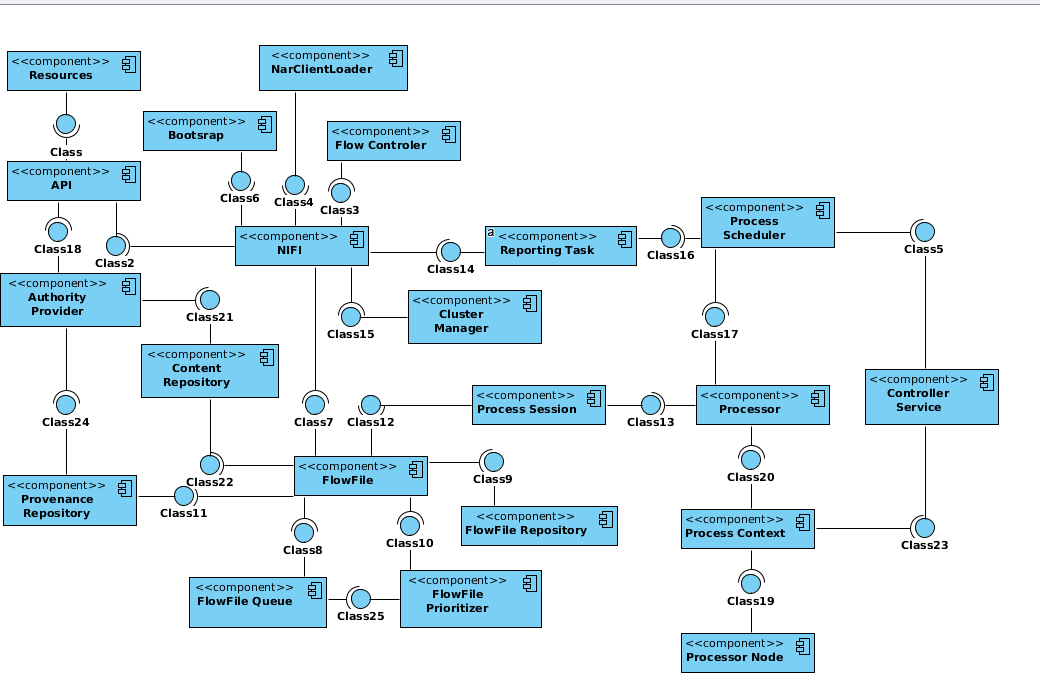
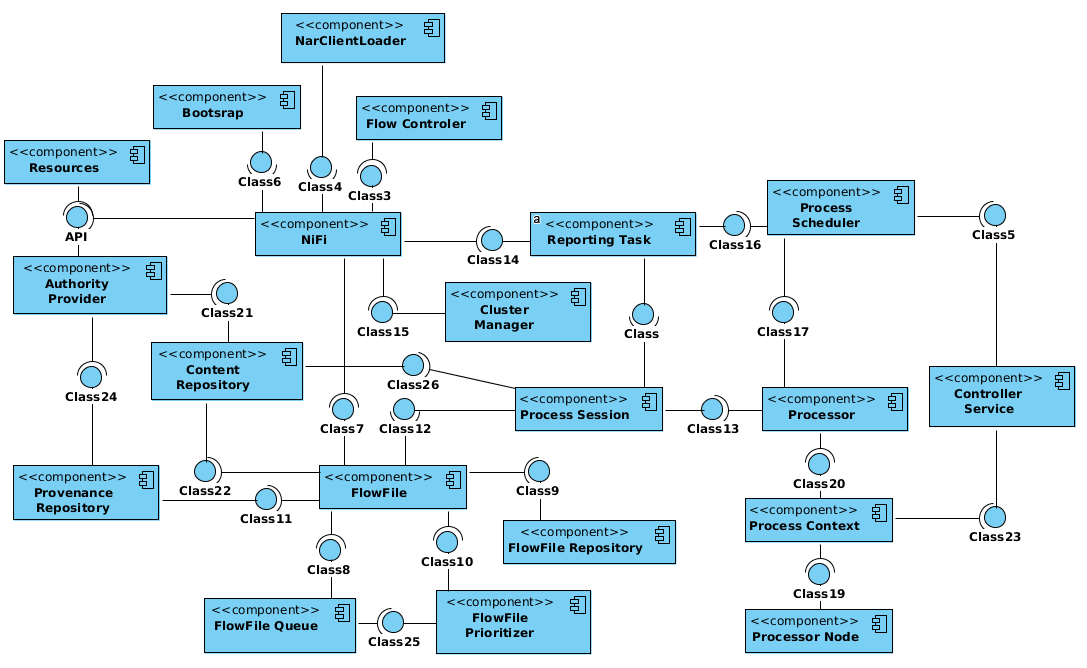
Completion of Component diagram

Changed region(s): [[0.0, 0.0, 1.0, 0.988], [0.6462, 0.4491, 0.7385, 0.509]]

diff --git a/ArchSW-docs/README_EN.md b/ArchSW-docs/README_EN.md
@@ -23,8 +23,6 @@ Table of Contents
 #Description
 Nifi is a graphical interface designed to automatic data flows between different computer, networks, even when the protocols differ.
 
-#REPORT
-
 ##Introduction
 
 It is intended with this report to describe a study done to an application chosen by the group, within the Software Architecture discipline.
@@ -33,7 +31,7 @@ In an environment which we may find various systems, where some of them create a
 
 NiFi was built to automate the flow of data between systems. It supports powerful and scalable directed graphs of data routing, transformation, and system mediation logic.  NiFi has a web-based user interface for design, control, feedback, and monitoring of dataflows.
 
-
+<!--
 ##NIFI
 
 //description of the program
@@ -46,7 +44,7 @@ NiFi was built to automate the flow of data between systems. It supports powerfu
 ->Flowfile: A FlowFile represents each object moving through the system and for each one, NiFi keeps track of a map of key/value pair attribute strings and its associated content of zero or more bytes.
 
 ->Flow Controller: The Flow Controller maintains the knowledge of how processes actually connect and manages the threads and allocations thereof which all processes use. The Flow Controller acts as the broker facilitating the exchange of FlowFiles between processors.
-
+-->
 ##Diagrams
 
 Since Nifi is a real complex system, in some diagrams we had to focus on the most interesting part of the system, witch will be highlighted.
@@ -71,10 +69,59 @@ Has the class diagram is the most complex of all diagrams, we just focused on th
 ![alt tag](https://github.com/Jointome/nifi/blob/master/ArchSW-docs/Images/classdiagram.jpg)
 
 ####Development View
-
-The component diagram is used to represent components, ports, interfaces and relationships between all of the previously mentioned to form larger components and/or software systems. 
-
+=============================================================================================917588261
 ######Component Diagram
+
+Nifi has a lot of componets wich are difficult to understand. Then the component diagram can easily help to compreend how the components fit together. Next we explain what each component does and witch components has a relation and what kind.
+
+- NiFi has the FlowFile. It represents structured data, such as a JSON or XML message, or may represent unstructured data, such as an image. The FlowFile is made up of content and attributes, in witch the content is a stream of bytesand the content is stored as a reference to the content itself, that is stored in the Content Repository. The content is accessed only by means of the Process Session, which is capable of cummunicating with the Content repository itself. These allows the data to be efficiently routed and reasoned abot without parsing the content.
+
+- Then it has the Processor, the most used component in NiFi. It is responsible for bringing data into the system, pushing data out to other systems, or performing some sort of enrichment, extraction, transformation, splitting, merging, or routing logic for a particular piece of data.
+
+
+- The Processor Node is a wrapper around a Processor, it maintains the Processor state, the configured properties, settings, the Processor scheduled state, and the annotations that are used to describe the Processor. 
+
+- A Reporting Task is a NiFi extension point, producing reports and analyzing NiFi's internal metrics providing information as bulletins that appear directly in the NiFi User Interface. It doesn't have access to individual FlowFiles, instade it has access to all Provenance Events, bullentins, and the metrics shown for components on the graph, such as FlowFiles In, Bytes Read, and Bytes Written.
+
+- The Controller Service is a mechanism that allows state or resources to be shared across multiple components in the flow. For example, if a very large dataset needs to be loaded, it will generally make sense to use a Controller Service to load the dataset. This allows multiple Processors to make use of this dataset without having to load the dataset multiple times.
+
+- The Process Session makes a connection between Processors and FlowFiles and provides transactional behavior across the tasks that are perfotmed by a Processor. It provides methods to read, write contents to FlowFiles, add and remove FlowFiles from the flow, add and remove attributes from a FlowFile, and route a FlowFile to a particular relationship.
+
+- The Process Context provides a bridge between a Processor and its associated Processor Node, providing information about the Processor's current configuration. It also provides mechanisms for accessing the Controller Services that are available, so that Processors are able to take advantage of shared logic or shared resources.
+FlowFile Repository
+
+- The FlowFile Repository is responsible for storing the FlowFiles' attributes and state, it is considered a 'private API'.
+
+- The Content Repository is responsible for storing the content of FlowFiles and providing mechanisms for reading the contents of a FlowFile. It is considered a 'private API'.
+
+- The Provenance Repository is responsible for storing, retrieving, and querying all Data Provenance Events. Each time that a FlowFile is received, routed, cloned, forked, modified, sent, or dropped, a Provenance Event is generated that details this information. 
+
+- The Provenance Repository allows this information to be stored about each FlowFile as it traverses through the system and provides a mechanism for assembling a "Lineage view" of a FlowFile, so that a graphical representation can be shown of exactly how the FlowFile was handled. It is considered a 'private API'.
+
+- The Process Scheduler invokes the Processor or a Reporting Task by scheduling it. The scheduler is also responsible for scheduling framework tasks to run at periodic intervals and maintaining the schedule state of each component, as well as the current number of active threads. 
+
+- FlowFile Queue is responsible for implementing quite a bit of logic. In addition to queuing the FlowFiles for another component to pull from, the FlowFile Queue must also be able to prioritize the data following the user's prioritization rules.
+
+- FlowFile Prioritizer. The user has the ability to prioritize the data in whatever order makes sense for a particular dataflow at a particular point in time. 
+ The FlowFile Queue is responsible for ensuring the data is ordered in the way that the user has chosen. This is accomplished by applying FlowFile Prioritizers to the queue. A FlowFile Prioritizer has access to all FlowFile information but does not have access to the data that it points to. The Prioritizer can then compare two FlowFiles in order to determine which should be made available first.
+
+- The Flow Controller can be thought of as the bridge between the Web Tier and the back end components of a NiFi node. It is largely responsible for the initialization of the flow, the creation of components in the flow, and the coordination between those components. In a more general sense, the Flow Controller is responsible for maintaining system-wide state. This includes the state of the flow itself, and is responsible for coordinating connection and participation in a NiFi cluster.
+
+- The Cluster Manager is responsible for maintaining system-wide state about an entire cluster. This includes information such as which nodes are in the cluster and the states of those nodes. Additionally, the Cluster Manager is responsible for acting as the bridge between the Web Tier and the cluster state. This includes replicating requests from the user to all nodes in the cluster and merging their responses.
+An instance of NiFi will create either a Cluster Manager or a Flow Controller but never both.
+
+- The Authority Provider is responsible for determining which users have access to perform which operations. It accomplishes this by providing a list of Authorities, or Roles, that a given user is allowed to possess. In this way, a central authority service can be used to dictate which Roles a given user is allowed to have, but just because a user is allowed to be granted the ADMIN role, for example, does not mean that the user should have the ADMIN role for a particular instance.
+
+- Resources
+NiFi's User Interface shows only information that is available via the NiFi RESTful API. This is accomplished by accessing the different endpoints that are defined in the *-Resource classes. For example, the ProcessorResource class is responsible for defining the endpoints that are used to interact with the different Processors in the flow, including the addition and removal of Processors. The ProvenanceResource class is responsible for defining the endpoints that are used to interact with the Provenance Repository, such as executing queries.
+
+- The Bootstrap allows the user to easily configure how the NiFi JVM will be started by relying on the configuration provided in the bootstrap.properties file. This allows the application to easily be started with Remote Debugging enabled, with specified minimum and maximum heap sizes, and with other important JVM options.
+Once the NIFi application has been started, the bootstrap is then responsible for monitoring NiFi and restarting the service as needed in order to ensure that the application continues to provide reliable dataflow.
+
+- NarClassLoader
+In a containerized environment like NiFi, it is important to allow different extension points to have arbitrary dependencies without those dependencies affecting other, unrelated extension points. In Java, the mechanism for doing this is the ClassLoader. NiFi defines its own implementation of the ClassLoader, the NarClassLoader. Each NiFi Archive (NAR) has its own NarClassLoader that is responsible for loading the classes defined in that NAR. Additionally, it is responsible for providing native library isolation, so that a Processor, for example, can depend on native libraries that are not shared with other components. This is accomplished by placing those native libraries in the NAR's native directory.
+
+For more information about NiFi Archives and how they are used, see the NiFi Archives (NARs) section in the Developer Guide.
 ![alt tag](https://github.com/Jointome/nifi/blob/master/ArchSW-docs/Images/component.png)
 
 ######Package Diagram
